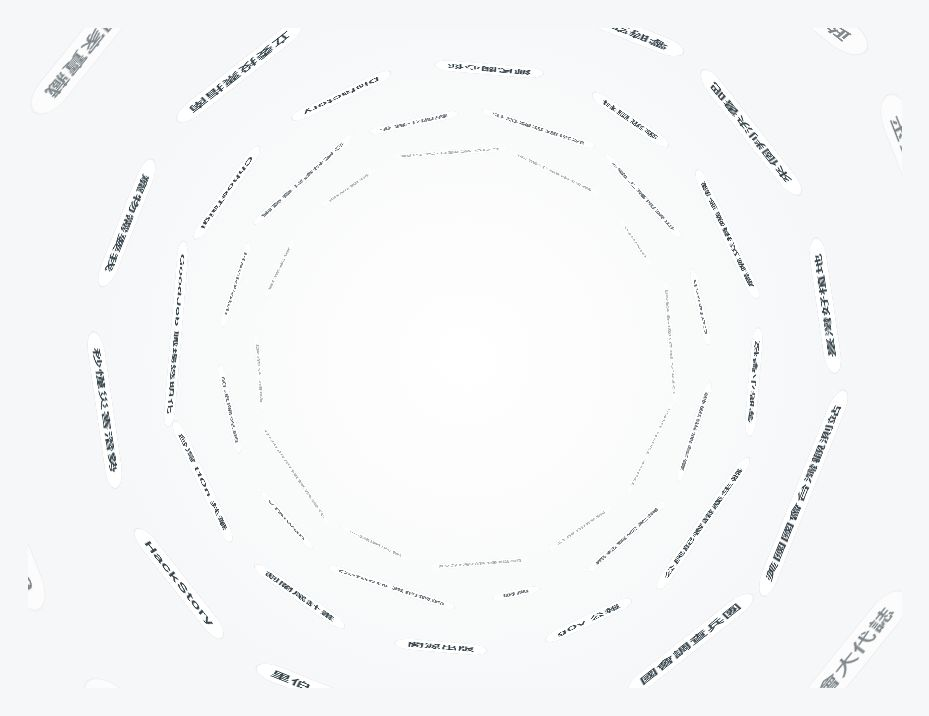
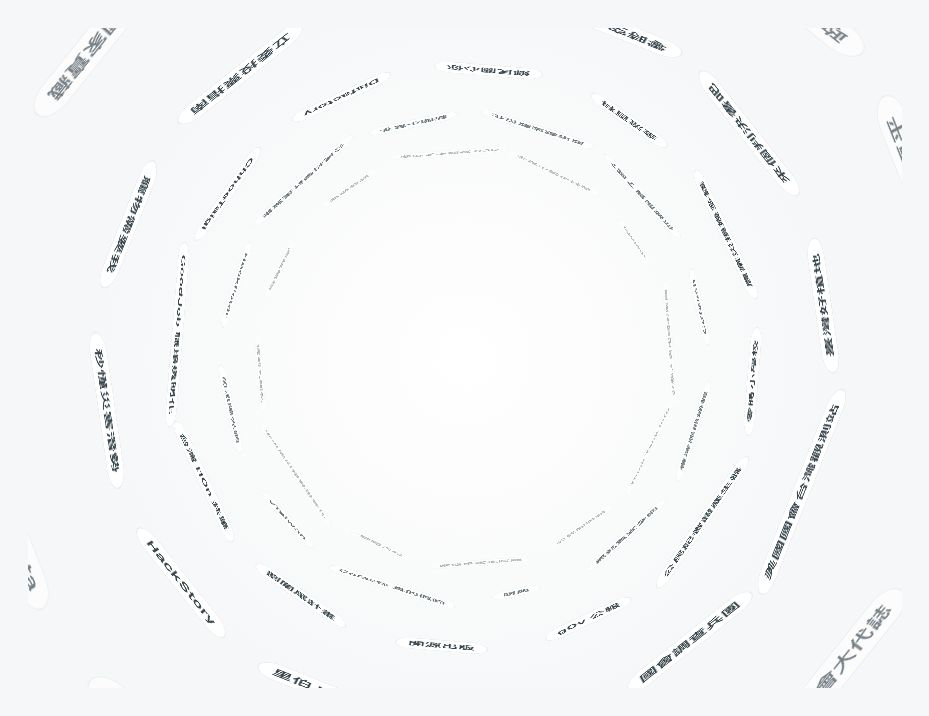
feat: /play screening room; decks can tour themselves
- /play/: the chosen deck plays itself on a big screen (?embed&tour=5 steps
  through the whole deck and starts over); posters below lean toward the
  pointer and switch channels with a burst of static. Each poster lists the
  deck's slides, theme and effects, read from the file at build time
- deck data shared by /play and /play/<deck>; posters from tools/thumbs.mjs
- nav gets Examples; the home page links there

diff --git a/site/src/data/decks.ts b/site/src/data/decks.ts
@@ -1,0 +1,28 @@
+// Example decks shown on the site. Slide counts, effects and theme are read from the deck
+// files at build time (see deckStats), so adding a deck here is all it takes.
+import { readFileSync } from "node:fs";
+import { resolve } from "node:path";
+
+export const decks = [
+  {
+    id: "storymap",
+    file: "examples/storymap/index.html",
+    zh: ["從車站出發", "樹林社大的地圖故事：真地圖插點飛行、嵌入真網站、從真網站拍下的頁面重組。"],
+    en: ["From the station", "A Shulin story map talk: a live map tour, an embedded site, and a morph from the real site."],
+  },
+  {
+    id: "effects",
+    file: "effects.html",
+    zh: ["效果圖鑑", "slidejam 的 44 種效果，每一頁一種。它本身就是一份 slidejam 簡報。"],
+    en: ["Effects gallery", "All 44 slidejam effects, one per slide. It is itself a slidejam deck."],
+  },
+];
+
+// what the deck file says about itself: how many slides, which effects, which theme
+export function deckStats(file: string) {
+  const html = readFileSync(resolve(process.cwd(), "..", file), "utf8");
+  const slides = (html.match(/<section class="slide/g) || []).length;
+  const fx = [...new Set([...html.matchAll(/data-fx="([^"]+)"/g)].flatMap((m) => m[1].split(/\s+/)))];
+  const theme = html.match(/deck\/themes\/([a-z-]+)\.css/)?.[1] ?? "default";
+  return { slides, fx, theme };
+}

diff --git a/deck/deck.js b/deck/deck.js
@@ -671,14 +671,23 @@
     setupPeek(); setupAnnotate();
     addEventListener("resize", () => { fit(); fitWall(); }); fit();
 
-    // ?embed: a deck shown inside another page — no chrome, no keys, replays by itself
-    // (?embed&loop=8 replays every 8 s; default 9)
+    // ?embed: a deck shown inside another page — no chrome, no keys, plays by itself
     const q = new URLSearchParams(location.search);
     const embed = q.has("embed");
     if (embed) {
       document.body.classList.add("embed");
-      const every = +(q.get("loop") || 9) * 1000;
-      setInterval(() => !document.hidden && show(Deck.cur), every);
+      // ?embed&tour=6 walks through the whole deck by itself (a step every 6 s, then starts
+      // over); otherwise ?embed&loop=8 just replays the one slide
+      if (q.has("tour")) {
+        const every = +(q.get("tour") || 6) * 1000;
+        setInterval(() => {
+          if (document.hidden) return;
+          Deck.cur === Deck.slides.length - 1 ? show(0) : next();
+        }, every);
+      } else {
+        const every = +(q.get("loop") || 9) * 1000;
+        setInterval(() => !document.hidden && show(Deck.cur), every);
+      }
     }
     if (!embed) {
       addEventListener("keydown", onKey);

diff --git a/examples/storymap/deck/deck.js b/examples/storymap/deck/deck.js
@@ -671,14 +671,23 @@
     setupPeek(); setupAnnotate();
     addEventListener("resize", () => { fit(); fitWall(); }); fit();
 
-    // ?embed: a deck shown inside another page — no chrome, no keys, replays by itself
-    // (?embed&loop=8 replays every 8 s; default 9)
+    // ?embed: a deck shown inside another page — no chrome, no keys, plays by itself
     const q = new URLSearchParams(location.search);
     const embed = q.has("embed");
     if (embed) {
       document.body.classList.add("embed");
-      const every = +(q.get("loop") || 9) * 1000;
-      setInterval(() => !document.hidden && show(Deck.cur), every);
+      // ?embed&tour=6 walks through the whole deck by itself (a step every 6 s, then starts
+      // over); otherwise ?embed&loop=8 just replays the one slide
+      if (q.has("tour")) {
+        const every = +(q.get("tour") || 6) * 1000;
+        setInterval(() => {
+          if (document.hidden) return;
+          Deck.cur === Deck.slides.length - 1 ? show(0) : next();
+        }, every);
+      } else {
+        const every = +(q.get("loop") || 9) * 1000;
+        setInterval(() => !document.hidden && show(Deck.cur), every);
+      }
     }
     if (!embed) {
       addEventListener("keydown", onKey);
